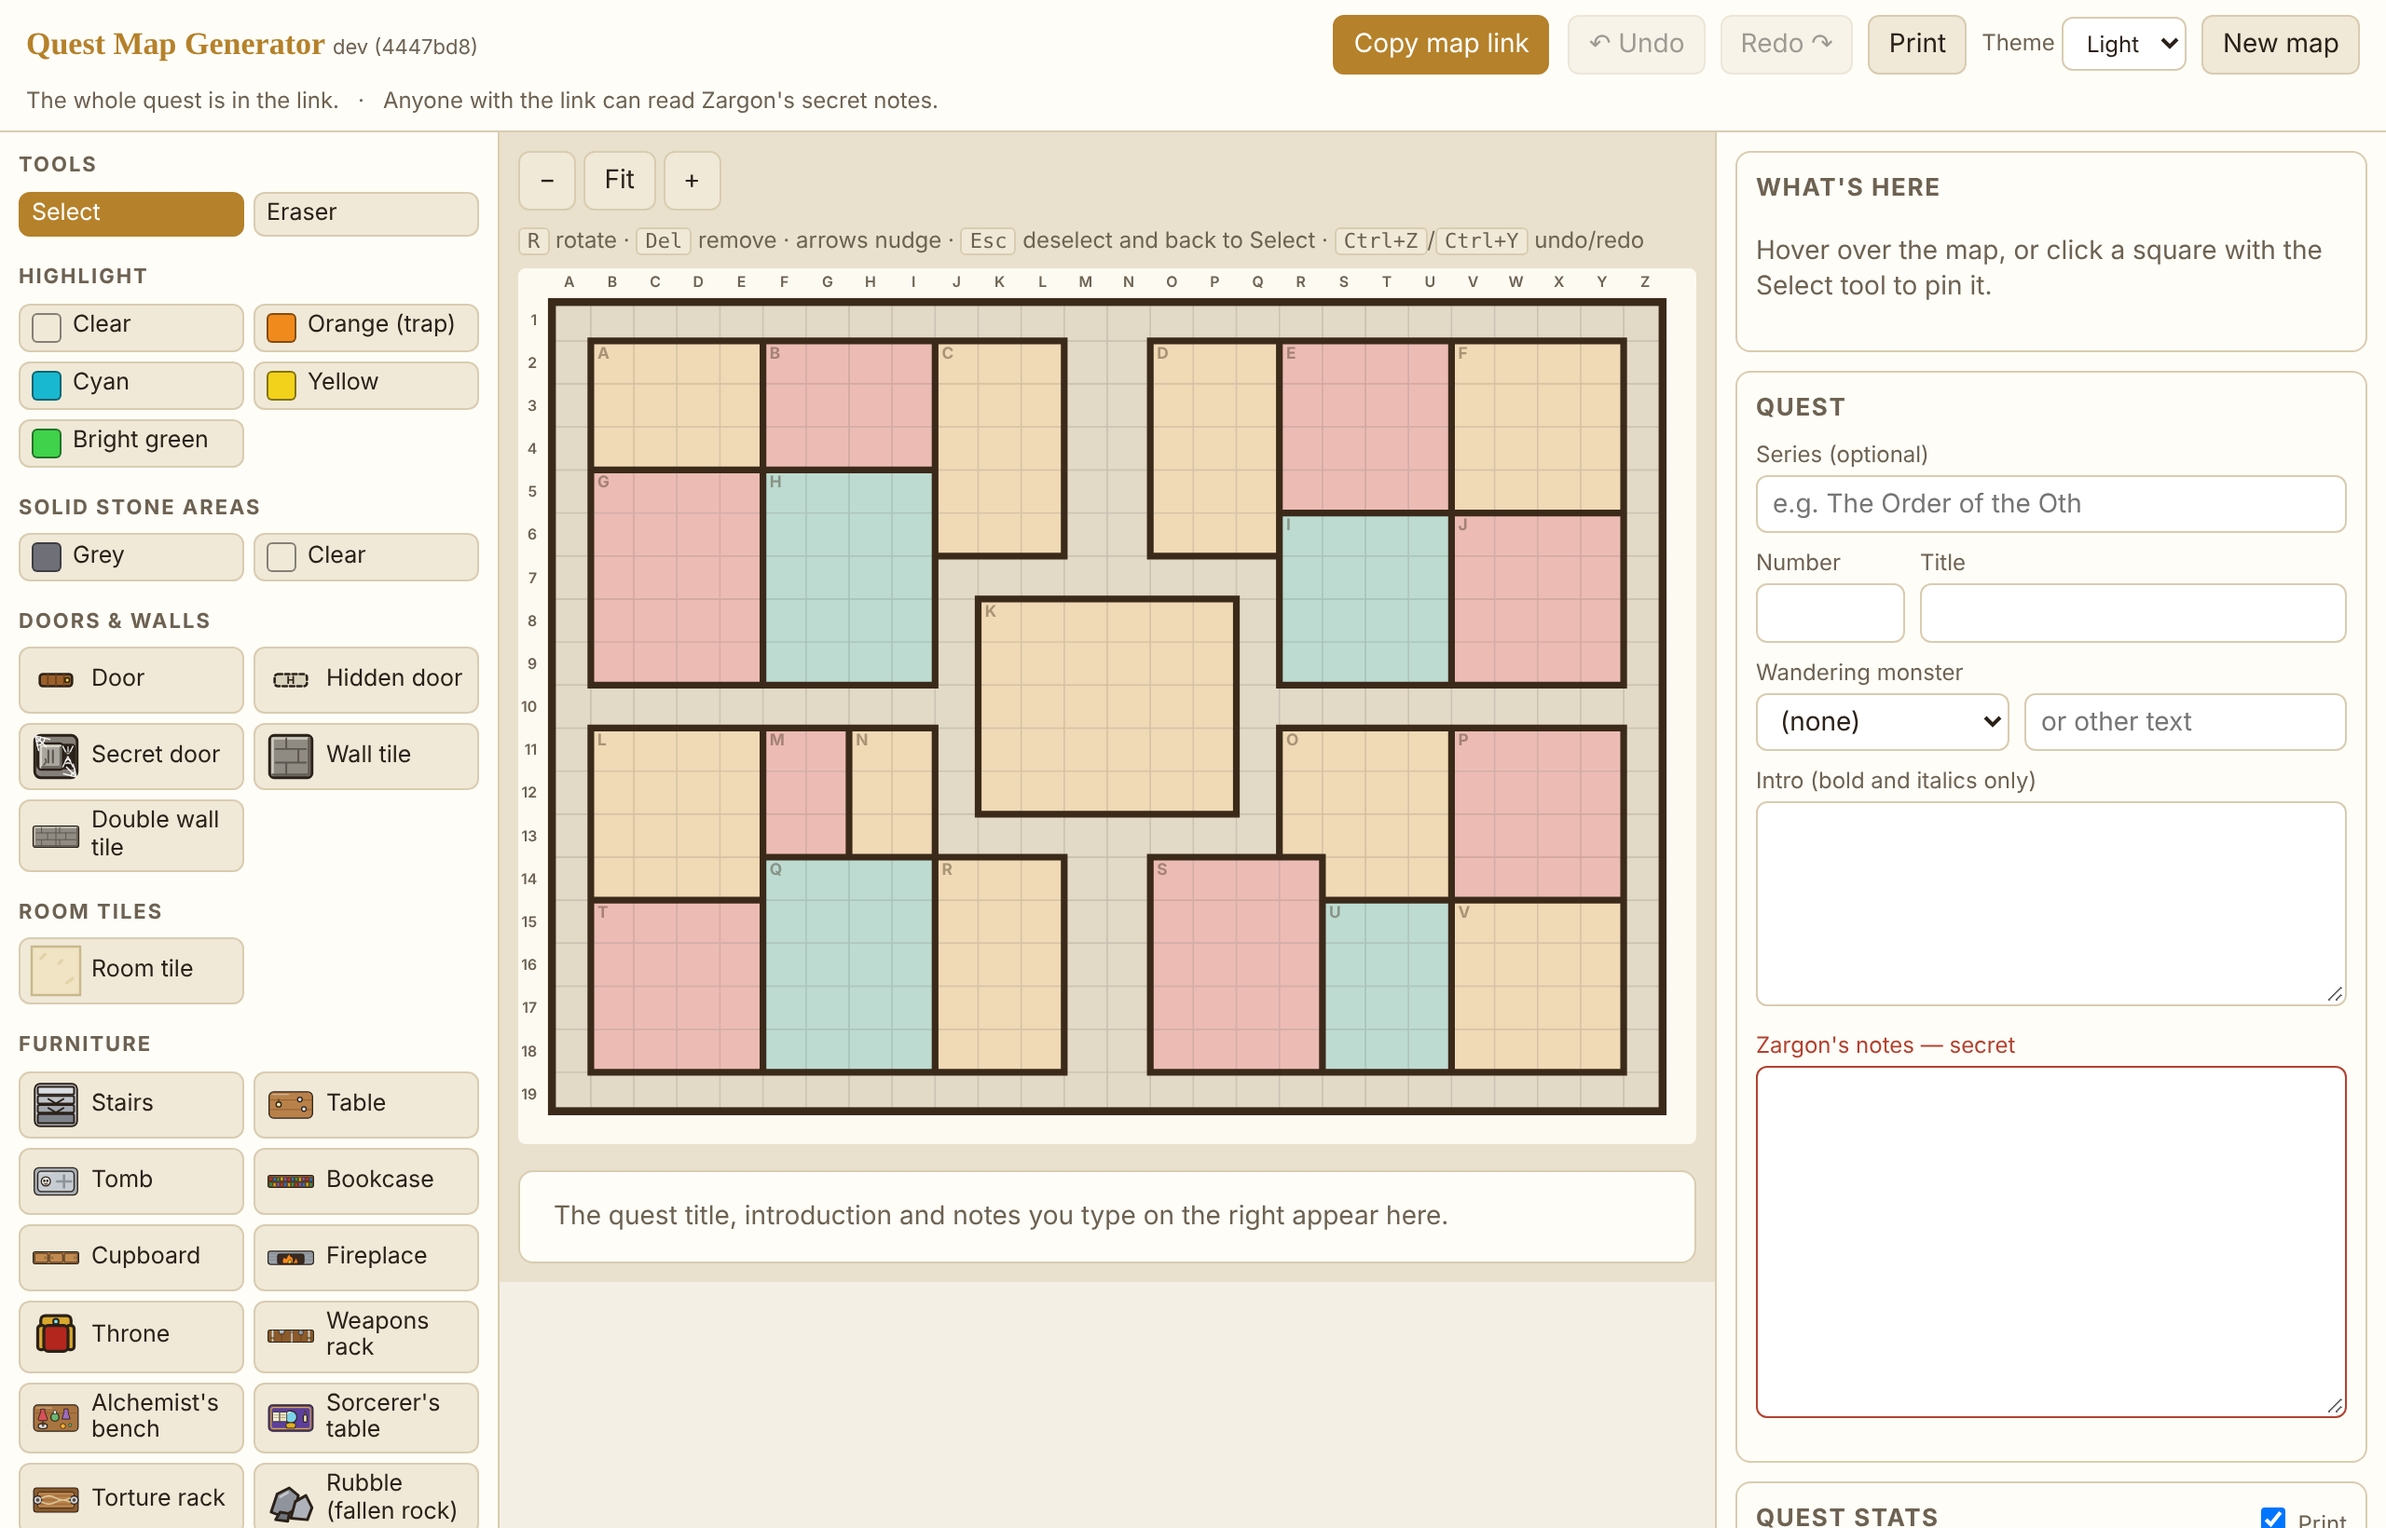
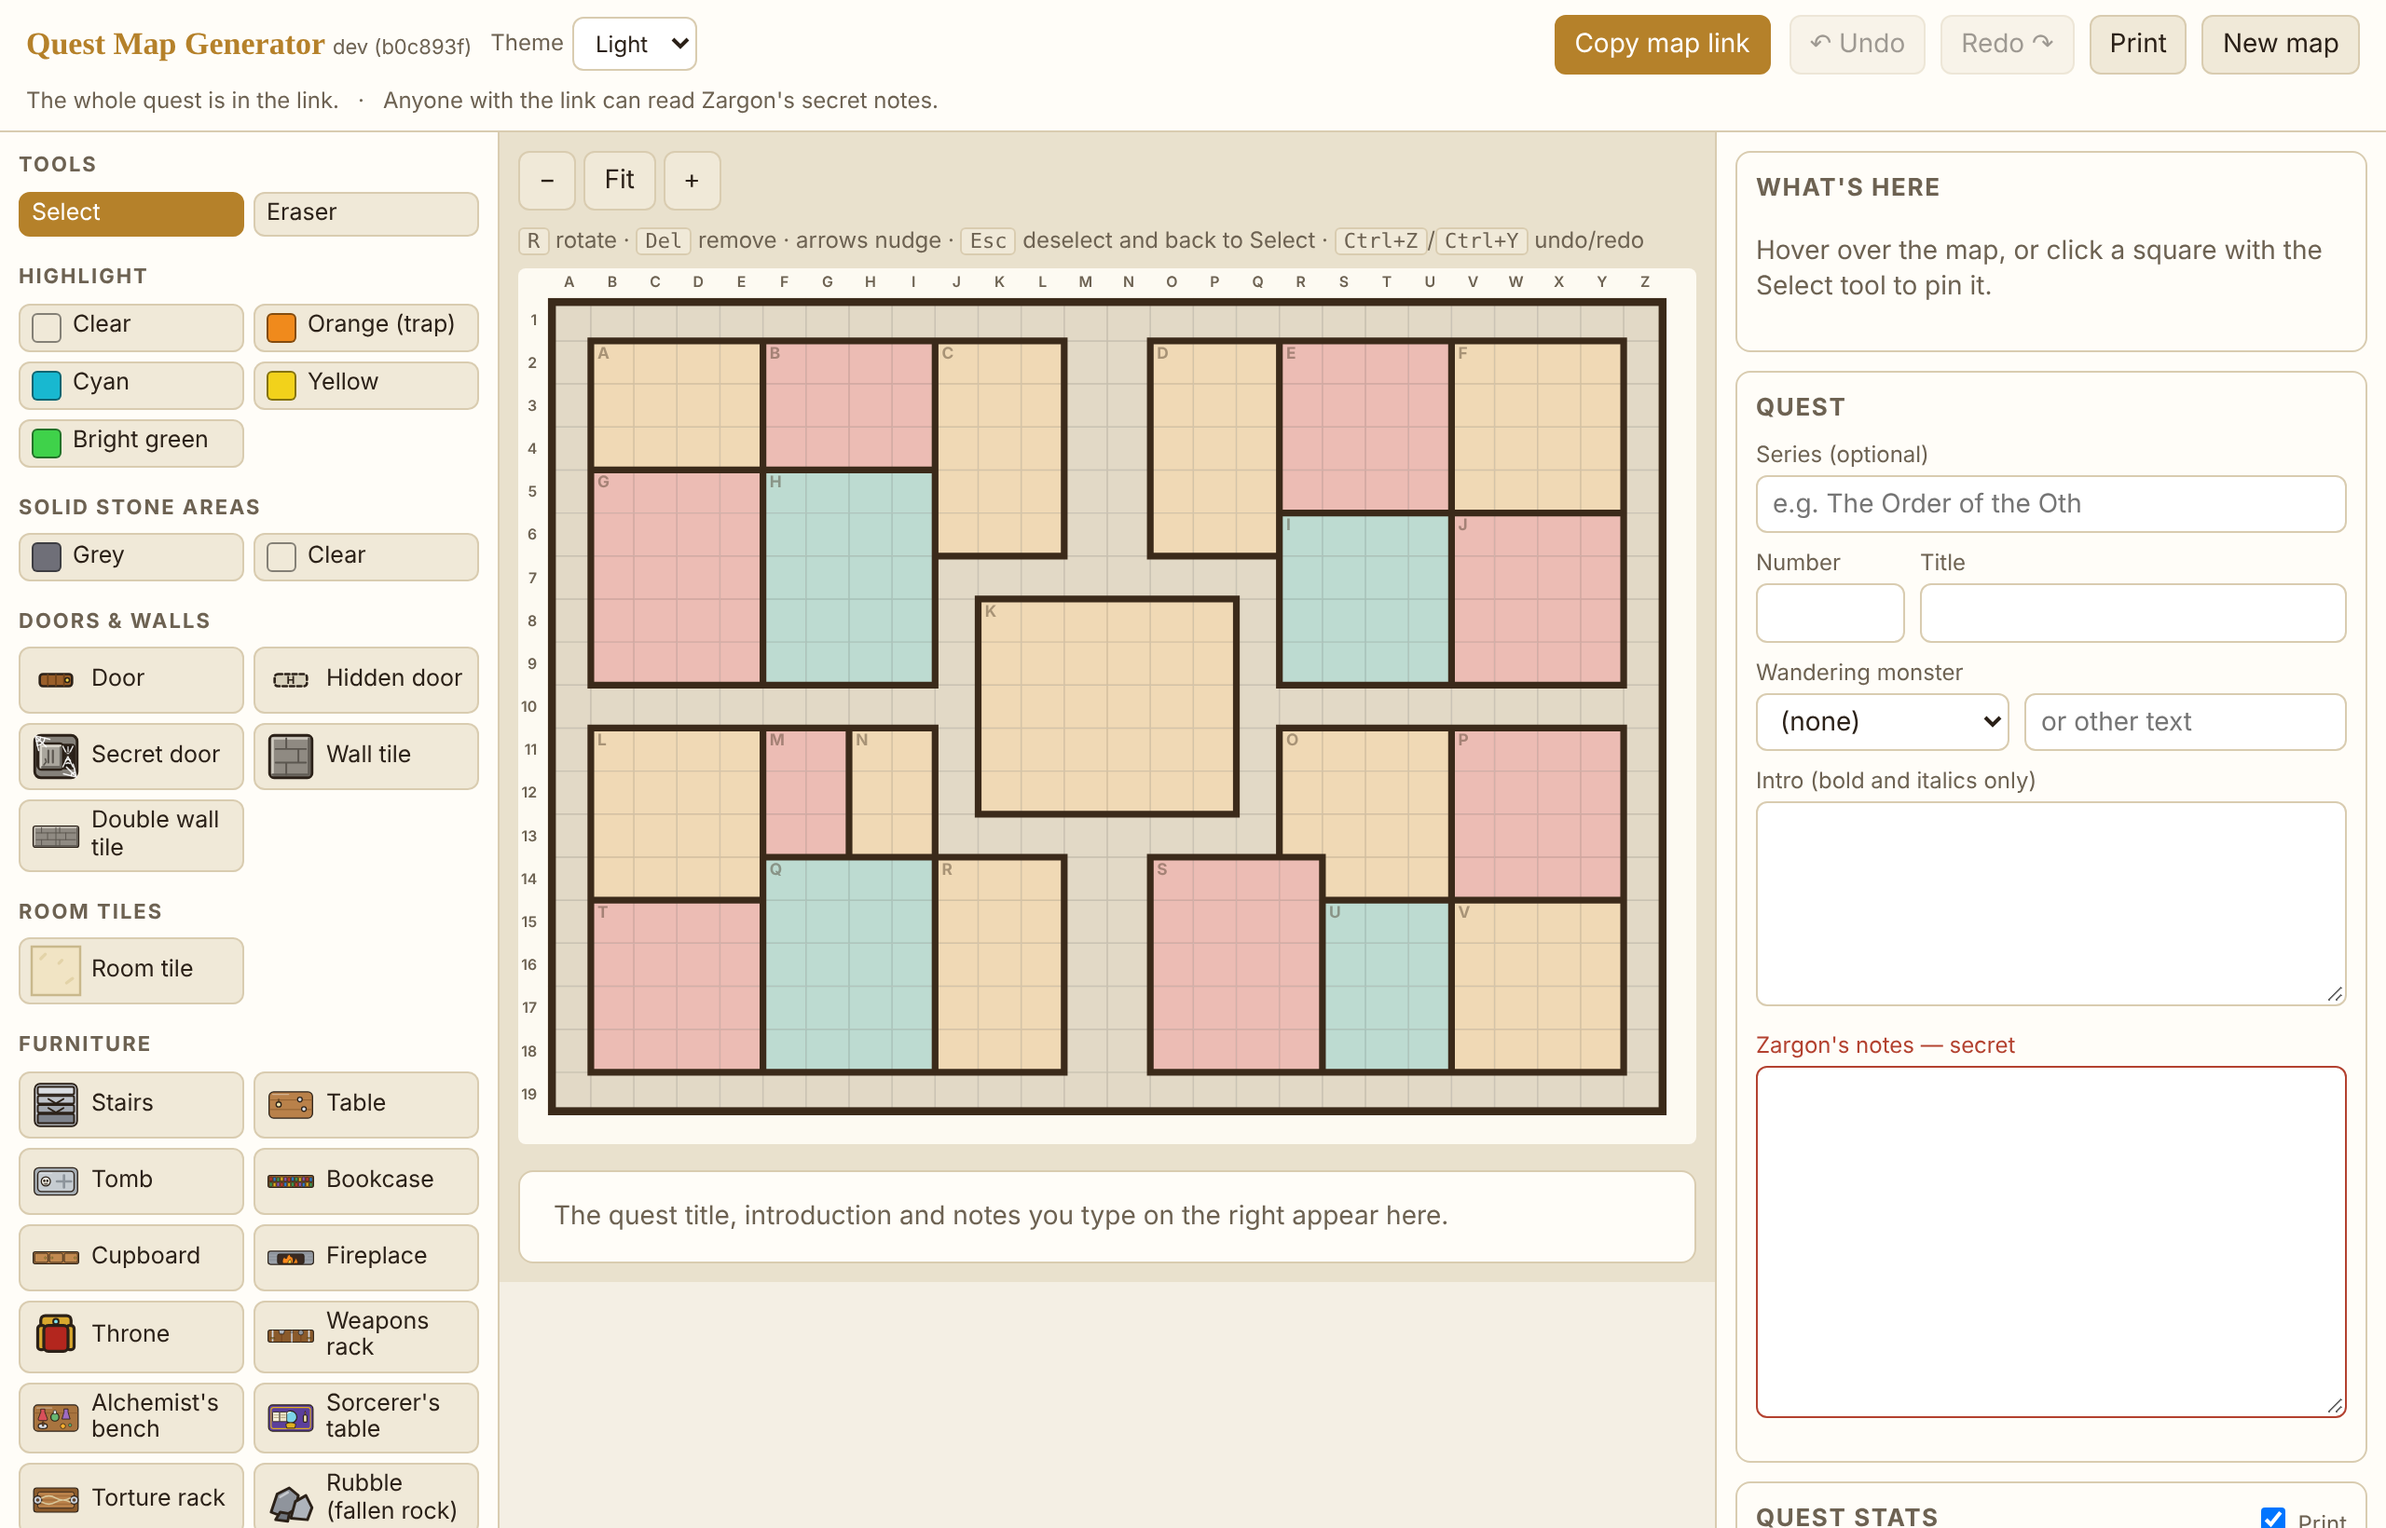
feat: theme picker after the version, centered footer
Theme moves next to the app name and build, leaving Undo, Redo, Print
and New map on the right. The footer notice is centered. README
screenshots regenerated.

This work was substantially AI-generated with human review and
direction throughout.

Vibe-Coder: Vibe-Coder 1.z3r0 <243014891+vibecoder-1z3r0@users.noreply.github.com>

Changed region(s): [[0.5625, 0.0, 0.9375, 0.0622], [0.25, 0.0, 0.2812, 0.0311]]

diff --git a/src/index.html b/src/index.html
@@ -14,15 +14,15 @@
 <header id="topbar">
   <div class="toprow">
     <h1>Quest Map Generator <span class="ver">@VERSION@</span></h1>
+    <label class="themepick">Theme
+      <select id="theme"></select>
+    </label>
     <span id="head-title" class="head-title"></span>
     <button id="copy" type="button" class="primary" title="Anyone with the link can read Zargon's secret notes">Copy map link</button>
     <div class="actions">
       <button id="undo" type="button" title="Undo (Ctrl+Z)">&#8630; Undo</button>
       <button id="redo" type="button" title="Redo (Ctrl+Y)">Redo &#8631;</button>
       <button id="print-btn" type="button">Print</button>
-      <label class="themepick">Theme
-        <select id="theme"></select>
-      </label>
       <button id="clear" type="button">New map</button>
     </div>
   </div>

diff --git a/src/style.css b/src/style.css
@@ -161,8 +161,8 @@ kbd { background: var(--panel2); border: 1px solid var(--border); border-radius:
 
 #printsheet, #printhead { display: none; }
 .pcheck { float: right; margin-left: 8px; font: 400 12px system-ui, sans-serif; text-transform: none; letter-spacing: 0; color: var(--muted); cursor: pointer; }
-#footer { padding: 12px 14px; font-size: 11px; color: var(--muted); border-top: 1px solid var(--border); }
-#footer p { margin: 0; max-width: 1000px; }
+#footer { text-align: center; padding: 12px 14px; font-size: 11px; color: var(--muted); border-top: 1px solid var(--border); }
+#footer p { margin: 0 auto; max-width: 1000px; }
 
 @media (max-width: 1000px) {
   #app { grid-template-columns: 1fr; }
